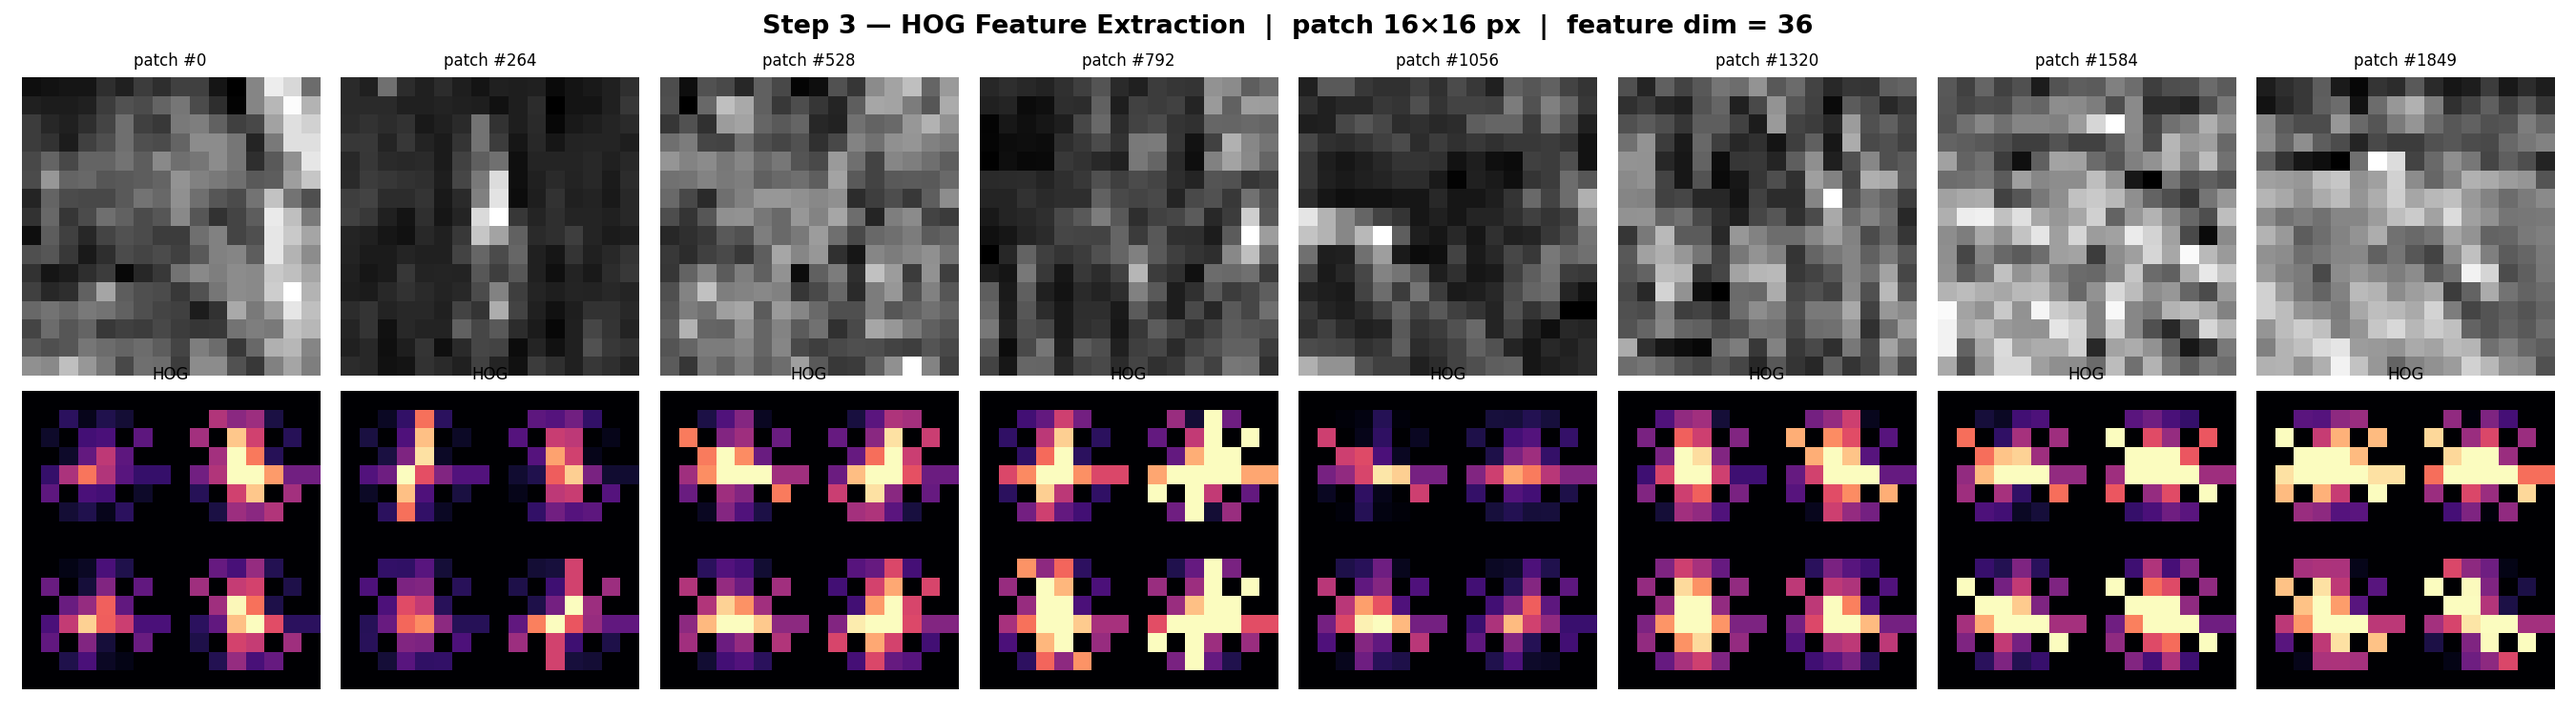
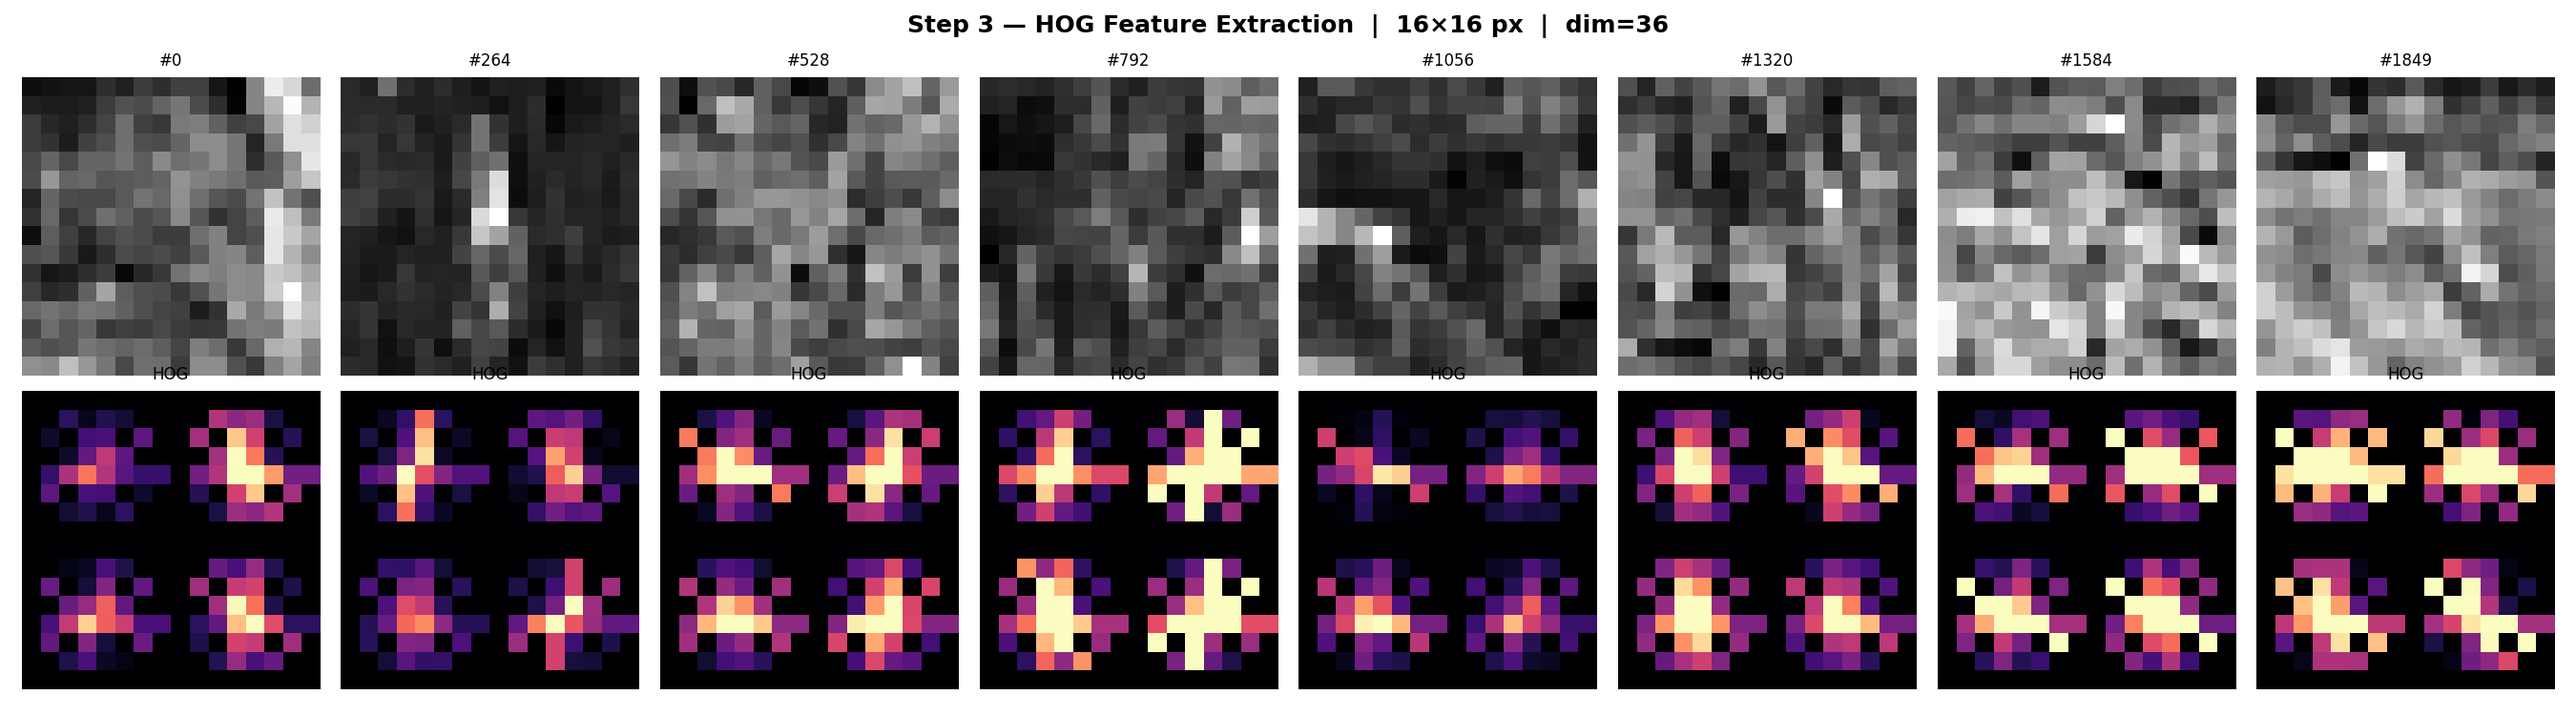
Step 4: KMeans clustering on HOG features with segmentation map

diff --git a/main.py b/main.py
@@ -1,91 +1,106 @@
+import os
+import sys
+sys.path.insert(0, os.path.dirname(os.path.abspath(__file__)))
+
 import cv2
 import numpy as np
+import matplotlib
+matplotlib.use("Agg")
 import matplotlib.pyplot as plt
-import matplotlib.patches as mpatches
 
-from src.segmentation import CLUSTER_COLORS, CLUSTER_NAMES
+from src.preprocessing  import load_image, extract_patches, get_grid_shape
+from src.hog_features   import compute_hog_features, compute_hog_single, get_feature_dim
+from src.segmentation   import (
+    run_kmeans, build_label_map, labels_to_color_map, CLUSTER_NAMES, CLUSTER_COLORS
+)
+from src.visualization  import overlay_segmentation, save_segmentation_figure
+
+# ── Config ────────────────────────────────────────────────────────────────────
+IMAGE_PATH  = "images/forest_path.jpg"
+PATCH_SIZE  = 16
+STRIDE      = 16
+N_CLUSTERS  = 3
+OUTPUT_DIR  = "output"
+os.makedirs(OUTPUT_DIR, exist_ok=True)
 
 
-def overlay_segmentation(
-    img_bgr: np.ndarray,
-    color_map_rgb: np.ndarray,
-    alpha: float = 0.45,
-) -> np.ndarray:
-    """
-    Blend RGB color_map over original BGR image.
+def main():
+    print("=" * 55)
+    print("  Forest Path Segmentation — HOG + KMeans")
+    print("=" * 55)
 
-    Returns:
-        overlay : BGR image with segmentation blended in
-    """
-    color_map_bgr = cv2.cvtColor(color_map_rgb, cv2.COLOR_RGB2BGR)
-    cm_h, cm_w    = color_map_bgr.shape[:2]
-    overlay       = img_bgr.copy()
+    # ── Step 2: Load + patch extraction ──────────────────────────────────
+    img_bgr, img_gray = load_image(IMAGE_PATH, max_width=600)
+    h, w = img_gray.shape
+    print(f"\n[Step 2] Image loaded      : {w} x {h} px")
 
-    overlay[:cm_h, :cm_w] = cv2.addWeighted(
-        img_bgr[:cm_h, :cm_w], 1 - alpha,
-        color_map_bgr,          alpha,
-        0,
+    patches, positions = extract_patches(img_gray, PATCH_SIZE, STRIDE)
+    n_rows, n_cols     = get_grid_shape(img_gray, PATCH_SIZE, STRIDE)
+    print(f"[Step 2] Grid              : {n_rows} rows x {n_cols} cols")
+    print(f"[Step 2] Total patches     : {len(patches)}")
+
+    # Draw + save patch grid
+    img_preview = img_bgr.copy()
+    for (row, col) in positions:
+        cv2.rectangle(img_preview, (col, row),
+                      (col + PATCH_SIZE, row + PATCH_SIZE),
+                      (0, 200, 0), 1)
+    cv2.imwrite(os.path.join(OUTPUT_DIR, "step2_patch_grid.jpg"), img_preview)
+
+    # ── Step 3: HOG features ──────────────────────────────────────────────
+    print(f"\n[Step 3] Extracting HOG features...")
+    feature_matrix = compute_hog_features(patches)
+    feat_dim       = get_feature_dim(PATCH_SIZE)
+    print(f"[Step 3] Feature matrix    : {feature_matrix.shape}  "
+          f"({feature_matrix.shape[0]} patches × {feat_dim} features)")
+
+    # Save HOG sample visualisation
+    sample_indices = np.linspace(0, len(patches) - 1, 8, dtype=int)
+    fig, axes = plt.subplots(2, 8, figsize=(18, 5))
+    fig.suptitle(
+        f"Step 3 — HOG Feature Extraction  |  {PATCH_SIZE}×{PATCH_SIZE} px  |  dim={feat_dim}",
+        fontsize=12, fontweight="bold"
     )
-    return overlay
-
-
-def save_segmentation_figure(
-    img_bgr: np.ndarray,
-    color_map: np.ndarray,
-    overlay: np.ndarray,
-    labels: np.ndarray,
-    n_clusters: int,
-    output_path: str,
-) -> None:
-    """Save 3-panel figure: Original | Segmentation Map | Overlay."""
-    fig, axes = plt.subplots(1, 3, figsize=(20, 8))
-    fig.patch.set_facecolor("#1e1e1e")
-
-    titles = [
-        "Original Image",
-        f"KMeans Segmentation  |  {n_clusters} clusters",
-        "Blended Overlay",
-    ]
-    images = [
-        cv2.cvtColor(img_bgr, cv2.COLOR_BGR2RGB),
-        color_map,
-        cv2.cvtColor(overlay, cv2.COLOR_BGR2RGB),
-    ]
-
-    for ax, img, title in zip(axes, images, titles):
-        ax.imshow(img)
-        ax.set_title(title, fontsize=12, fontweight="bold",
-                     color="white", pad=10)
-        ax.axis("off")
-        for spine in ax.spines.values():
-            spine.set_edgecolor("#555")
-
-    # Legend: show cluster + patch count
-    legend_patches = []
-    for i in range(n_clusters):
-        count      = int(np.sum(labels == i))
-        pct        = count / len(labels) * 100
-        color_norm = [c / 255 for c in CLUSTER_COLORS[i]]
-        legend_patches.append(
-            mpatches.Patch(
-                color=color_norm,
-                label=f"{CLUSTER_NAMES[i]}  —  {count} patches ({pct:.1f}%)",
-            )
-        )
-
-    axes[1].legend(
-        handles=legend_patches,
-        loc="lower center",
-        bbox_to_anchor=(0.5, -0.08),
-        ncol=n_clusters,
-        fontsize=10,
-        framealpha=0.85,
-        facecolor="#2a2a2a",
-        labelcolor="white",
-    )
-
+    for i, idx in enumerate(sample_indices):
+        fd, hog_img = compute_hog_single(patches[idx])
+        axes[0, i].imshow(patches[idx], cmap="gray")
+        axes[0, i].set_title(f"#{idx}", fontsize=8)
+        axes[0, i].axis("off")
+        axes[1, i].imshow(hog_img, cmap="magma")
+        axes[1, i].set_title("HOG", fontsize=8)
+        axes[1, i].axis("off")
     plt.tight_layout()
-    plt.savefig(output_path, dpi=150, bbox_inches="tight",
-                facecolor=fig.get_facecolor())
+    plt.savefig(os.path.join(OUTPUT_DIR, "step3_hog_samples.png"), dpi=150)
     plt.close()
-    print(f"[Step 4] Saved → {output_path}")
+
+    # ── Step 4: KMeans clustering ─────────────────────────────────────────
+    print(f"\n[Step 4] Running KMeans  (k={N_CLUSTERS})...")
+    labels, kmeans, scaler = run_kmeans(feature_matrix, n_clusters=N_CLUSTERS)
+
+    print(f"[Step 4] Clustering done.")
+    for i in range(N_CLUSTERS):
+        count = int(np.sum(labels == i))
+        pct   = count / len(labels) * 100
+        print(f"         {CLUSTER_NAMES[i]}  →  {count} patches  ({pct:.1f}%)")
+
+    # Build label map + color map
+    label_map = build_label_map(labels, n_rows, n_cols)
+    color_map = labels_to_color_map(label_map, PATCH_SIZE, (h, w))
+    overlay   = overlay_segmentation(img_bgr, color_map, alpha=0.45)
+
+    # Save results
+    cv2.imwrite(os.path.join(OUTPUT_DIR, "step4_color_map.jpg"),
+                cv2.cvtColor(color_map, cv2.COLOR_RGB2BGR))
+    cv2.imwrite(os.path.join(OUTPUT_DIR, "step4_overlay.jpg"), overlay)
+
+    save_segmentation_figure(
+        img_bgr, color_map, overlay, labels,
+        N_CLUSTERS,
+        os.path.join(OUTPUT_DIR, "step4_segmentation.png"),
+    )
+
+    print("\nStep 4 complete ✓  Ready for Step 5: visualization polish.")
+
+
+if __name__ == "__main__":
+    main()
